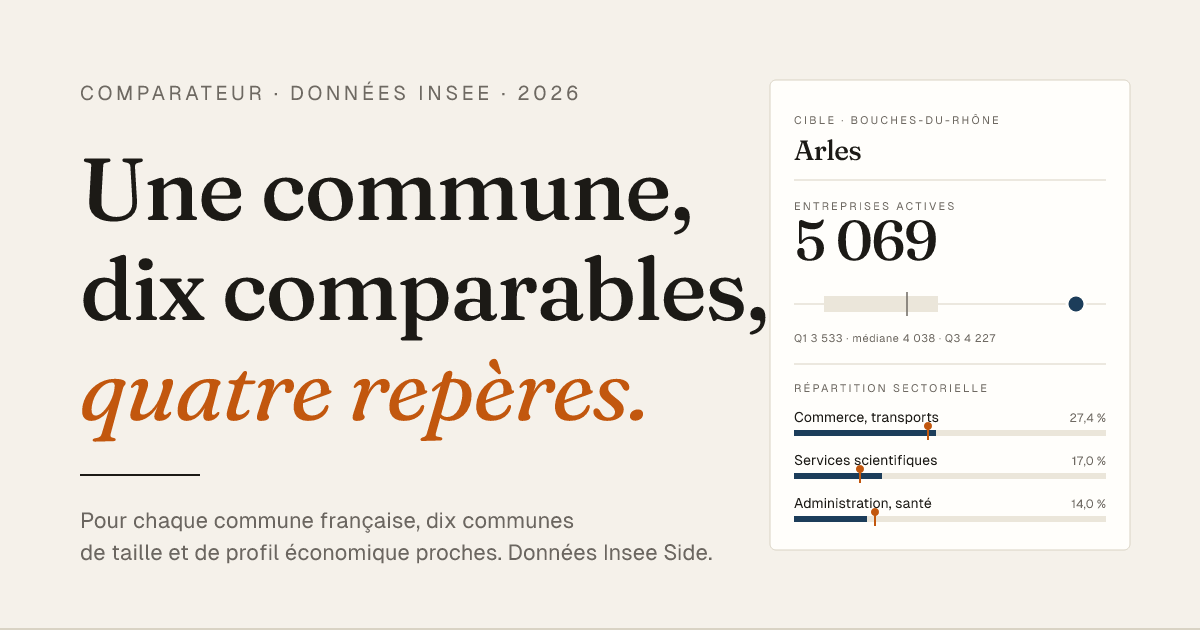
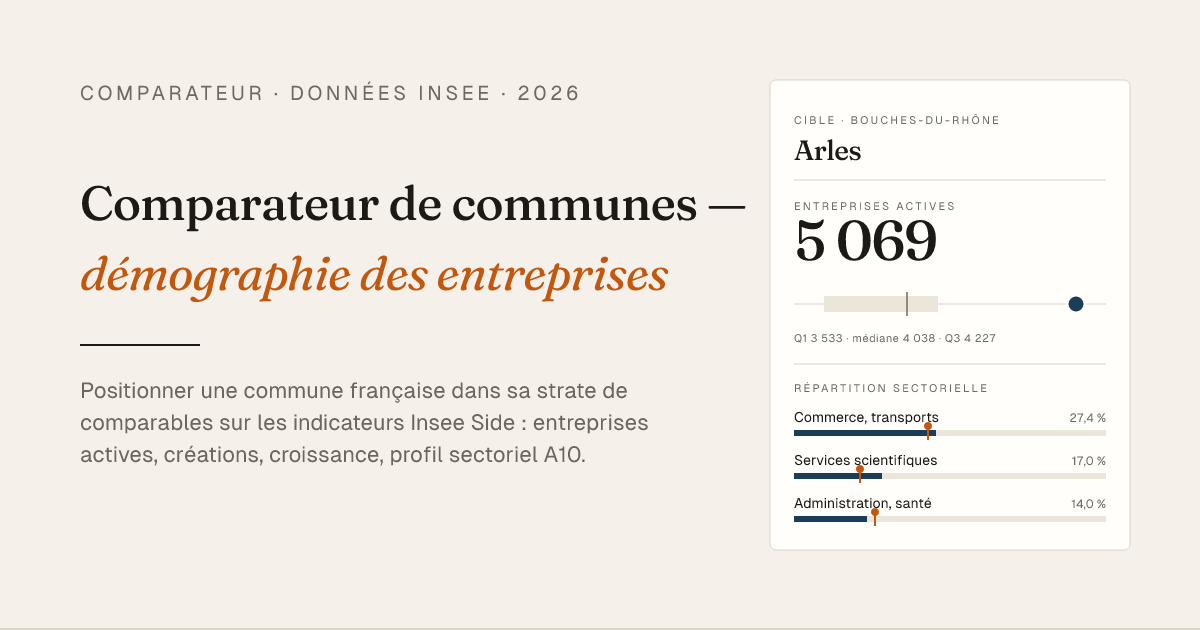
chore: hygiène dépôt et automatisations CI
Hygiène dépôt (community health profile 42 % → 71 %) :
- CONTRIBUTING.md : prérequis Node ≥ 18, dev local (python http.server /
  npx serve), conventions FR (commits mono-auteur, pas de Co-Authored-By),
  périmètre des PR.
- SECURITY.md : politique de versions (main seul maintenu), signalement
  privé via GitHub Security Advisories (canal intégré, pas de
  divulgation publique avant correctif), délais de réponse cibles.
- .github/ISSUE_TEMPLATE/bug.yml : formulaire structuré avec champs URL,
  navigateur/OS, attendu, observé, console F12, plus checkboxes pour
  rappeler de vérifier les doublons et de tenter un refresh.
- Wiki désactivé (vide, doublon avec README + docs/).

Dependabot :
- .github/dependabot.yml : surveillance mensuelle de npm (devDeps OG /
  tests) et de github-actions (versions de checkout, setup-node, etc.).
- Vulnerability alerts + automated security fixes activés via API
  (gh api -X PUT /repos/.../vulnerability-alerts).

Service Worker — versioning automatique (élimine le bug futur
« j'ai poussé un fix CSS, personne ne le voit ») :
- scripts/compute-sw-version.mjs : parse la liste SHELL de sw.js, hash
  SHA-256 (chemin + contenu) de chaque fichier, écrit la version
  cec-shell-XXXXXXXX. Idempotent : ne réécrit pas si le hash est inchangé.
- Step ajoutée à .github/workflows/pages.yml avant le déploiement, ce
  qui garantit que la version reflète toujours l'état réel du SHELL.
- Ajout aussi de js/util.js dans la liste SHELL (était oublié au commit
[…]

diff --git a/index.html b/index.html
@@ -4,14 +4,14 @@
   <meta charset="UTF-8">
   <meta name="viewport" content="width=device-width, initial-scale=1, viewport-fit=cover">
   <meta name="theme-color" content="#1c3d5a">
-  <title>Démographie des entreprises entre communes comparables</title>
-  <meta name="description" content="Comparaison automatique d'une commune française avec jusqu'à dix communes de taille et de profil sectoriel similaires. Données ouvertes Insee — évolution annuelle du nombre d'entreprises (fichier Insee Side) et populations légales.">
+  <title>Comparateur de communes — démographie d'entreprises (Insee)</title>
+  <meta name="description" content="Comparateur de communes françaises sur la démographie d'entreprises, à partir des données ouvertes Insee Side. Positionnement automatique d'une commune dans sa strate de comparables (taille, profil sectoriel).">
 
   <!-- Open Graph (Facebook / LinkedIn / Slack / Discord previews) -->
   <meta property="og:type" content="website">
-  <meta property="og:site_name" content="Comparateur Insee — communes françaises">
-  <meta property="og:title" content="Démographie des entreprises entre communes comparables">
-  <meta property="og:description" content="Comparaison automatique d'une commune française avec jusqu'à dix communes de taille et de profil sectoriel similaires. Indicateurs : unités légales actives, créations annuelles, croissance sur dix ans, répartition par grand secteur d'activité.">
+  <meta property="og:site_name" content="Comparateur de communes — démographie d'entreprises">
+  <meta property="og:title" content="Comparateur de communes — démographie d'entreprises (Insee)">
+  <meta property="og:description" content="Comparateur de communes françaises sur la démographie d'entreprises, à partir des données ouvertes Insee Side. Positionnement automatique d'une commune dans sa strate de comparables (taille, profil sectoriel).">
   <meta property="og:url" content="https://brunocpu.github.io/comparateur-entreprises-communes/">
   <meta property="og:locale" content="fr_FR">
   <meta property="og:image" content="https://brunocpu.github.io/comparateur-entreprises-communes/assets/og-image.png">
@@ -20,8 +20,8 @@
 
   <!-- Twitter Card -->
   <meta name="twitter:card" content="summary_large_image">
-  <meta name="twitter:title" content="Démographie des entreprises entre communes comparables">
-  <meta name="twitter:description" content="Compare une commune française à dix voisines de taille et profil sectoriel similaires. Données Insee.">
+  <meta name="twitter:title" content="Comparateur de communes — démographie d'entreprises (Insee)">
+  <meta name="twitter:description" content="Comparateur de communes françaises sur la démographie d'entreprises (Insee Side). Positionnement d'une commune dans sa strate de comparables.">
   <meta name="twitter:image" content="https://brunocpu.github.io/comparateur-entreprises-communes/assets/og-image.png">
 
   <link rel="manifest" href="./manifest.json">
@@ -46,11 +46,17 @@
 <header class="app-header">
   <div class="container">
     <p class="header-eyebrow">Comparateur · Données Insee · 2026</p>
-    <h1>Une commune, dix comparables, <em>quatre repères</em></h1>
+    <h1>Comparateur de communes — <em>démographie des entreprises</em></h1>
     <p class="subtitle">
-      Pour chaque commune française, dix communes de taille et de profil économique proches.
-      À la clé : combien d'entreprises y sont actives, combien naissent chaque année, comment leur
-      nombre a évolué depuis 2014, et quels secteurs pèsent le plus.
+      Outil libre pour positionner une commune française dans sa strate de
+      comparables sur les indicateurs de démographie d'entreprises, à partir des
+      données ouvertes Insee. Public cible : développeurs économiques de
+      collectivités, agences de développement économique, agences d'urbanisme,
+      étudiants et chercheurs en économie territoriale.
+    </p>
+    <p class="subtitle">
+      Indicateurs : entreprises actives, densité pour 1 000 habitants, croissance
+      2014→2023, créations annuelles, profil sectoriel A10.
     </p>
     <p class="header-meta" id="header-meta" hidden>
       <span id="cache-status"></span>

diff --git a/sw.js b/sw.js
@@ -1,7 +1,7 @@
 // Service worker — caches the app shell for offline use.
 // Insee data lives in IndexedDB and is not handled here.
 
-const CACHE = 'cec-shell-v63';
+const CACHE = 'cec-shell-0ed5cf60';
 const SHELL = [
   './',
   './index.html',
@@ -13,6 +13,7 @@ const SHELL = [
   './js/zip-csv.js',
   './js/matching.js',
   './js/ui.js',
+  './js/util.js',
   './js/export.js',
   './js/format.js',
   './assets/icon.svg'

diff --git a/CONTRIBUTING.md b/CONTRIBUTING.md
@@ -1,0 +1,66 @@
+# Contribuer
+
+Projet personnel ouvert aux PR — corrections de bugs, améliorations méthodologiques, traduction d'un texte mal formulé. Toute contribution est bienvenue tant qu'elle reste alignée avec le périmètre (comparaison de communes françaises sur la démographie d'entreprises Insee Side).
+
+## Prérequis
+
+- **Node ≥ 18** pour les scripts (tests, génération de l'artefact, build de l'image OG).
+- Un serveur HTTP local pour le dev navigateur (le service worker exige `https` ou `localhost`).
+
+## Lancement local
+
+```bash
+# Au choix
+python -m http.server 8000
+# ou
+npx serve .
+```
+
+Puis [http://localhost:8000](http://localhost:8000).
+
+Premier chargement : si `data/communes-2023.json` est présent dans le dépôt, il est récupéré et indexé en IndexedDB en quelques secondes. Sinon, fallback automatique vers le pull live de l'API Insee Melodi (~67 MB, 1 à 2 min).
+
+## Tests
+
+Deux niveaux :
+
+```bash
+# Unitaires offline — pas de réseau, ~100 ms, à lancer à chaque modif d'un helper.
+npm test
+
+# Bout-en-bout réseau — pull complet API Insee + matching, ~35 s.
+npm run test:e2e
+```
+
+Les unitaires couvrent les helpers pures : `quantile`, `cosine`, `haversine`,
+`relDelta`, `summarizeComparables`, `findComparables`, `parseCsvLine`,
+`headerIndex`, `normalize`, `escapeHtml`, `fmtInt`/`fmtDec1`/`fmtPct`. Voir
+`test/units.mjs`.
+
+Le harness e2e (`test-pull.mjs`) vérifie l'extraction réelle depuis l'API
+Insee, à utiliser quand on touche à la pipeline réseau (`insee-api.js`,
+`zip-csv.js`).
+
+## Conventions
+
+- Commits en **français**, mono-auteur (pas de trailer `Co-Authored-By:`).
+- Messages descriptifs : décrire le **pourquoi**, pas seulement le quoi.
+- Documenter en commentaire les choix non évidents (la consigne s'applique au code aussi : commentaires `WHY`, pas `WHAT`).
+- Pas de surcouches superflues (pas de TypeScript, pas de bundler, pas de framework — la simplicité est le contrat).
+
+## Périmètre des PR
+
+Acceptées :
+- Corrections de bug ou de comportement inattendu (joindre une étape de reproduction).
+- Améliorations d'accessibilité (RGAA / WCAG AA visé).
+- Optimisations vérifiées par mesure (Lighthouse, pa11y, profil mémoire).
+- Améliorations de la méthodologie statistique avec justification chiffrée.
+
+Hors périmètre :
+- Changement de stack technique (ajout TypeScript, React, framework CSS…).
+- Ajout d'analytics, cookies, services tiers.
+- Élargissement à d'autres jeux de données qui demanderait une refonte du modèle commune.
+
+## Discussion
+
+Issues ouvertes pour les bugs et propositions. Pour signaler une vulnérabilité, voir [SECURITY.md](./SECURITY.md).

diff --git a/README.md b/README.md
@@ -1,4 +1,4 @@
-# Démographie des entreprises entre communes comparables
+# Comparateur de communes — démographie d'entreprises
 
 Application web statique qui compare les **~34 000 communes françaises** selon leur démographie d'entreprises (stocks d'unités légales, créations annuelles, profil sectoriel) à partir des données ouvertes Insee.
 
@@ -6,6 +6,14 @@ Deux modes d'usage :
 
 - **Une commune** — saisis une commune, l'app calcule une sélection de 10 communes comparables (taille démographique et profil sectoriel similaires) et restitue le positionnement de la cible : indicateurs cardinaux, mini bullet-charts par indicateur, profil sectoriel A10 avec marqueur médian, tableau des comparables avec barres de fond proportionnelles, quartiles Q1 / médiane / Q3.
 - **Plusieurs communes** — comparaison libre de 2 à 10 communes au choix, sans contrainte de taille ni de profil. Pour confronter des villes voisines, ou des communes à profils contrastés.
+
+## Pourquoi cet outil
+
+Les données Insee sur la démographie d'entreprises (fichier Side, populations légales) sont riches mais dispersées : trois jeux à rapprocher, plusieurs millésimes, une nomenclature sectorielle agrégée, des règles de secret statistique à respecter. Pour un usage ponctuel — positionner rapidement une commune par rapport à des comparables crédibles — la barre d'entrée est disproportionnée.
+
+Cet outil rend l'exercice immédiat. À partir d'une commune cible, il sélectionne automatiquement dix communes comparables sur taille démographique (±25 %) et proximité de profil sectoriel A10, et restitue le positionnement de la cible sur quatre indicateurs : entreprises actives, densité pour 1 000 habitants, croissance 2014→2023, créations annuelles. Le mode « plusieurs communes » permet une comparaison libre, sans contrainte de strate, pour confronter des voisines ou des profils contrastés.
+
+Public cible naturel : développeurs économiques de collectivités, agences de développement économique, chargés de mission en agences d'urbanisme, étudiants et chercheurs en économie territoriale, ainsi que toute personne ayant besoin d'objectiver une comparaison communale sur des indicateurs économiques de base.
 
 ---
 

diff --git a/SECURITY.md b/SECURITY.md
@@ -1,0 +1,13 @@
+# Politique de sécurité
+
+## Versions supportées
+
+Seule la branche `main` est maintenue. Les releases taguées (ex. `v1.0.0`) sont des points fixes de communication et ne reçoivent pas de patchs rétroactifs.
+
+## Signaler une vulnérabilité
+
+Application web statique sans backend, sans auth, sans données utilisateur transmises. Surface d'attaque limitée à : XSS via injection dans le DOM, fuite via les URL d'API tierces appelées (`api.insee.fr`, `geo.api.gouv.fr`), exécution de code via une dépendance npm de build compromise.
+
+Signalement privé recommandé via [GitHub Security Advisories](https://github.com/brunocpu/comparateur-entreprises-communes/security/advisories/new) — canal intégré, pas de divulgation publique avant correctif.
+
+Délai de réponse cible : 7 jours pour accusé de réception, correctif sous 30 jours pour les vulnérabilités à risque réel.
